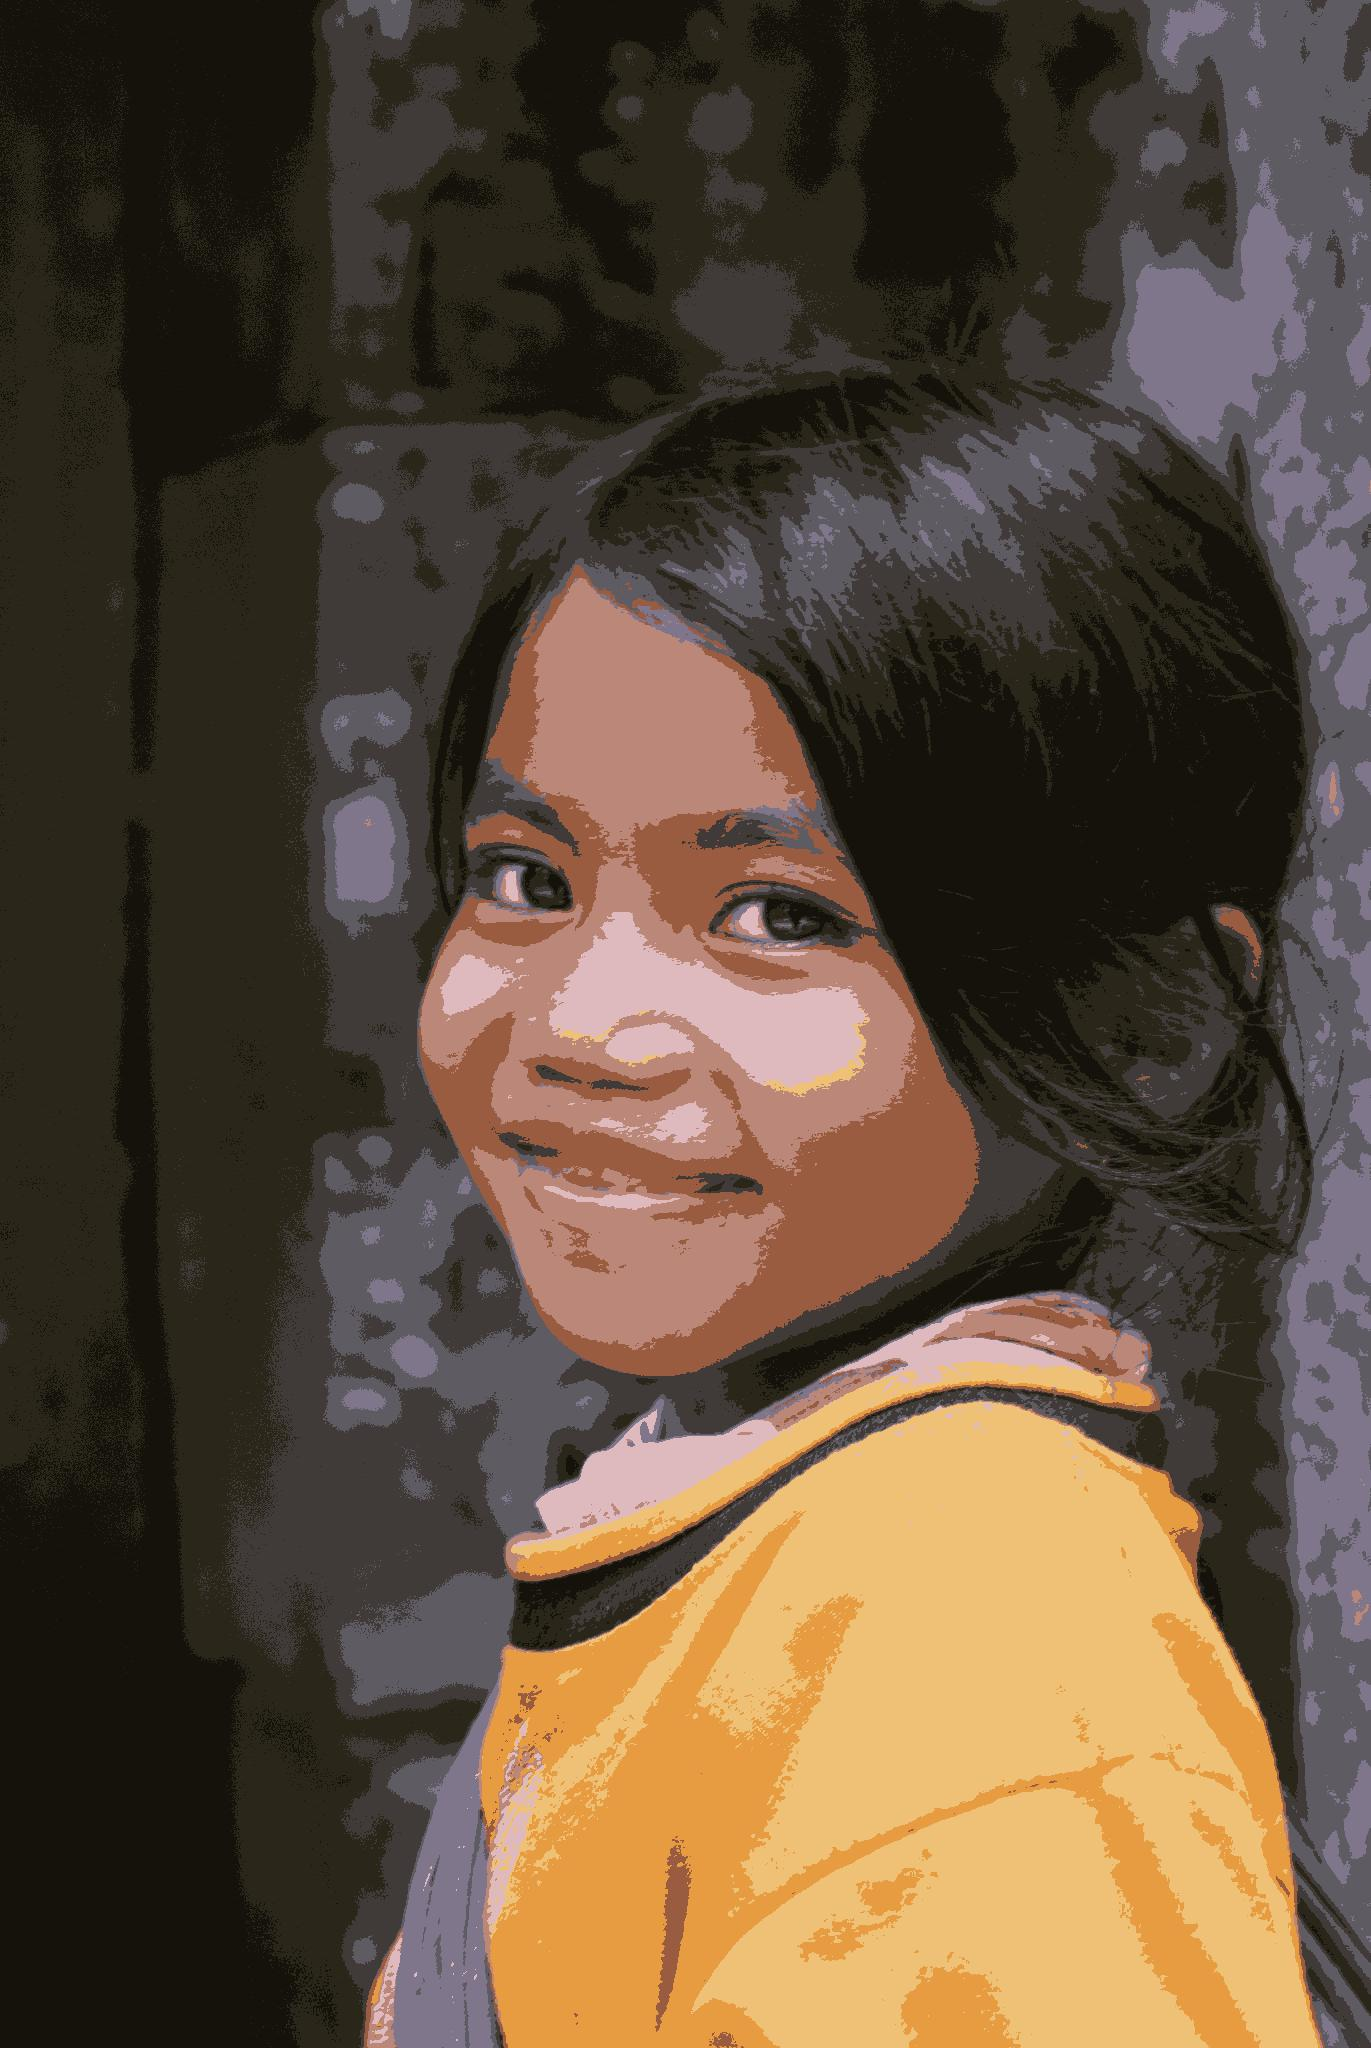
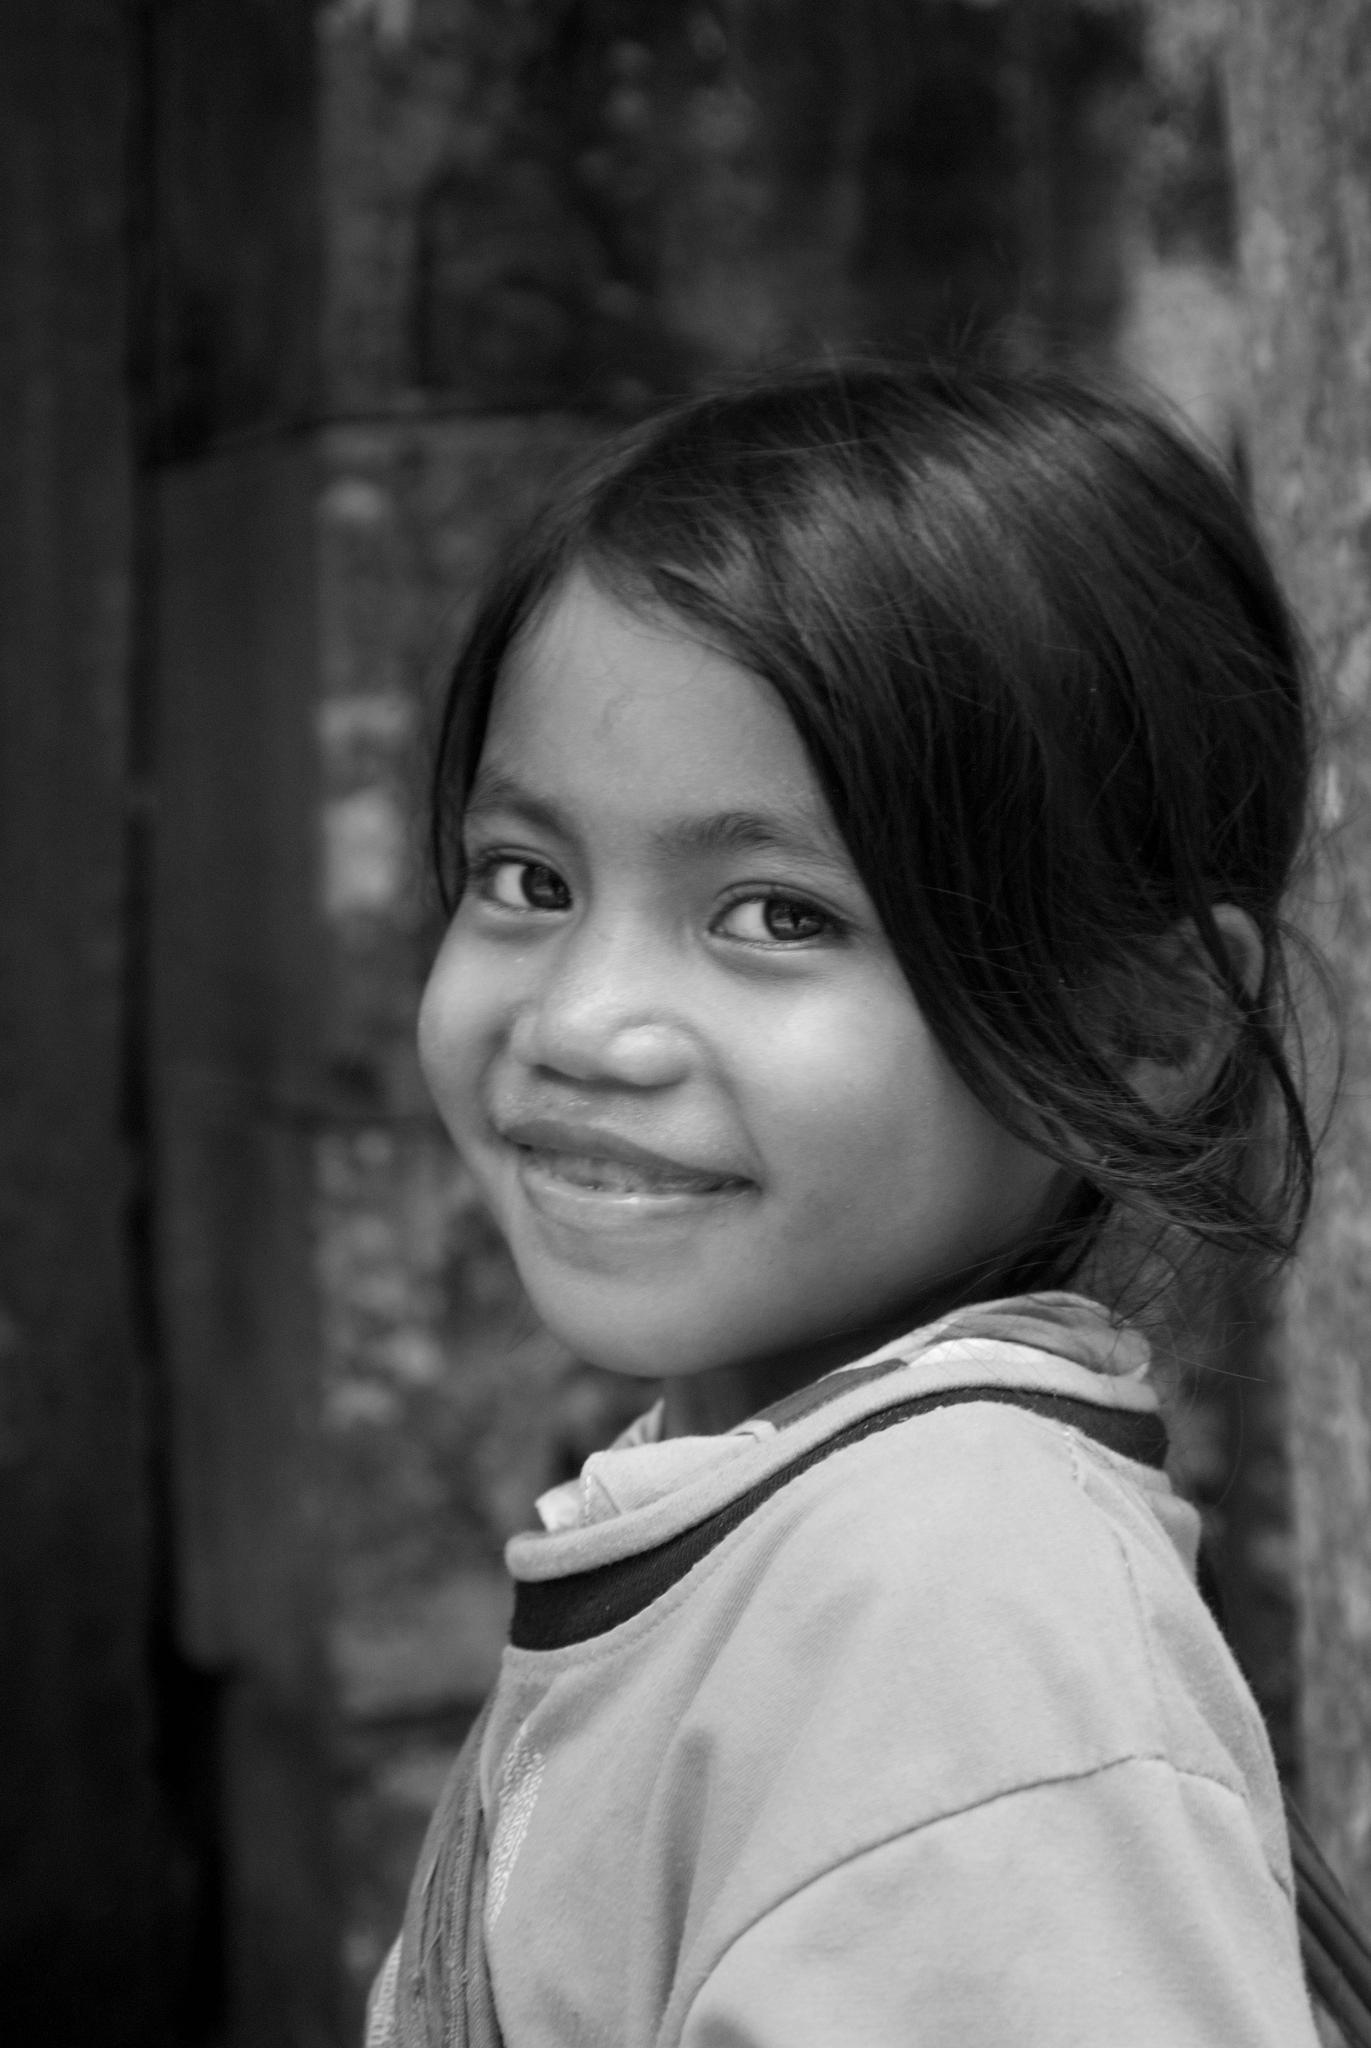
color vision

diff --git a/images/colors.py b/images/colors.py
@@ -1,0 +1,54 @@
+import imageio
+import numpy as np
+
+im = imageio.imread('cambodja.jpg')
+
+# Matrix from https://github.com/MaPePeR/jsColorblindSimulator/blob/master/colorblind.js
+
+ColorMatrixMatrixes = {
+ 'Achromatomaly': np.array([[61.8, 32, 6.2],
+                            [16.3, 77.5, 6.2],
+                            [16.3, 32, 51.6]])/100,
+
+ 'Achromatopsia': np.array([[29.9, 58.7, 11.4],
+                            [29.9, 58.7, 11.4],
+                            [29.9, 58.7, 11.4]])/100,
+
+ 'Deuteranomaly': np.array([[80, 20, 0],
+                            [25.833, 74.167, 0],
+                            [0, 14.167, 85.833]])/100,
+
+ 'Deuteranopia': np.array([[62.5, 37.5, 0],
+                           [70, 30, 0],
+                           [0, 30, 70]])/100,
+
+ 'Normal': np.array([[100, 0, 0],
+                     [0, 100, 0],
+                     [0, 0, 100]])/100,
+
+ 'Protanomaly': np.array([[81.667, 18.333, 0],
+                          [33.333, 66.667, 0],
+                          [0, 12.5, 87.5]])/100,
+
+ 'Protanopia': np.array([[56.667, 43.333, 0],
+                         [55.833, 44.167, 0],
+                         [0, 24.167, 75.833]])/100,
+
+ 'Tritanomaly': np.array([[96.667, 3.333, 0],
+                          [0, 73.333, 26.667],
+                          [0, 18.333, 81.667]])/100,
+
+ 'Tritanopia': np.array([[95, 5, 0],
+                         [0, 43.333, 56.667],
+                         [0, 47.5, 52.5]])/100
+ }
+
+version = "Achromatopsia"
+
+transformation = ColorMatrixMatrixes[version]
+
+im_flat = im.reshape(im.shape[0] * im.shape[1], 3)
+new_im_array = np.dot(im_flat, transformation.T).astype('uint8')
+new_im = imageio.core.util.Image(new_im_array.reshape(im.shape))
+
+imageio.imwrite('temp.jpg', new_im)
